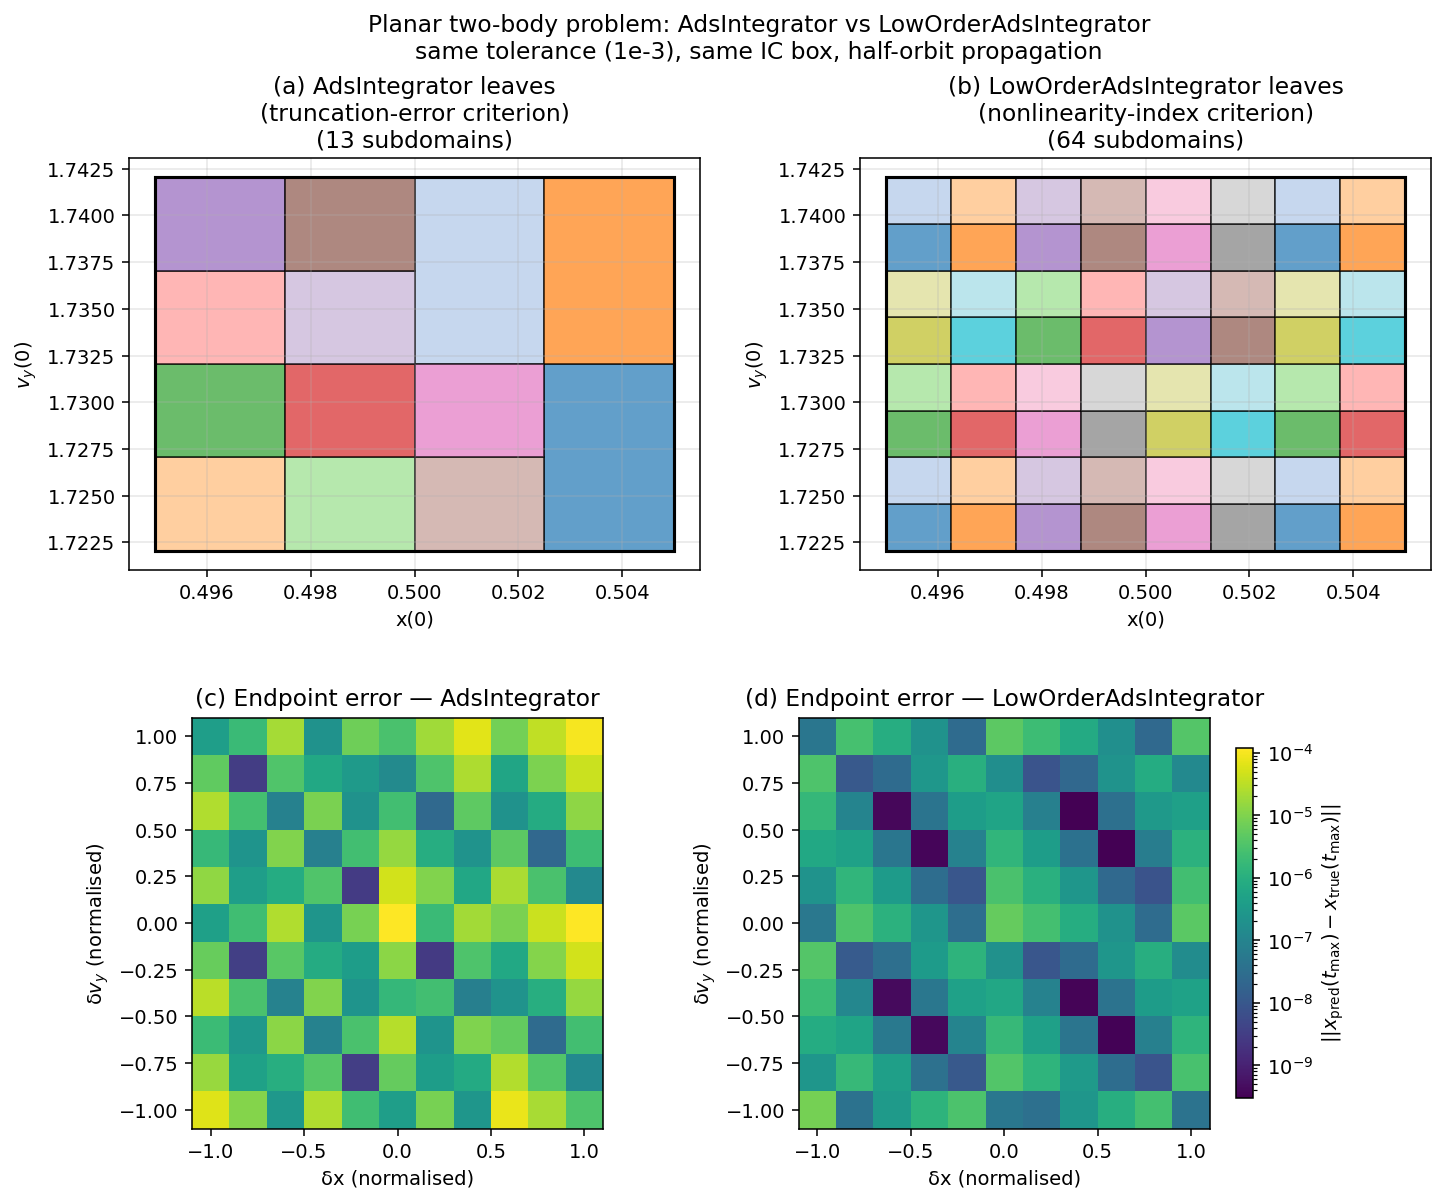
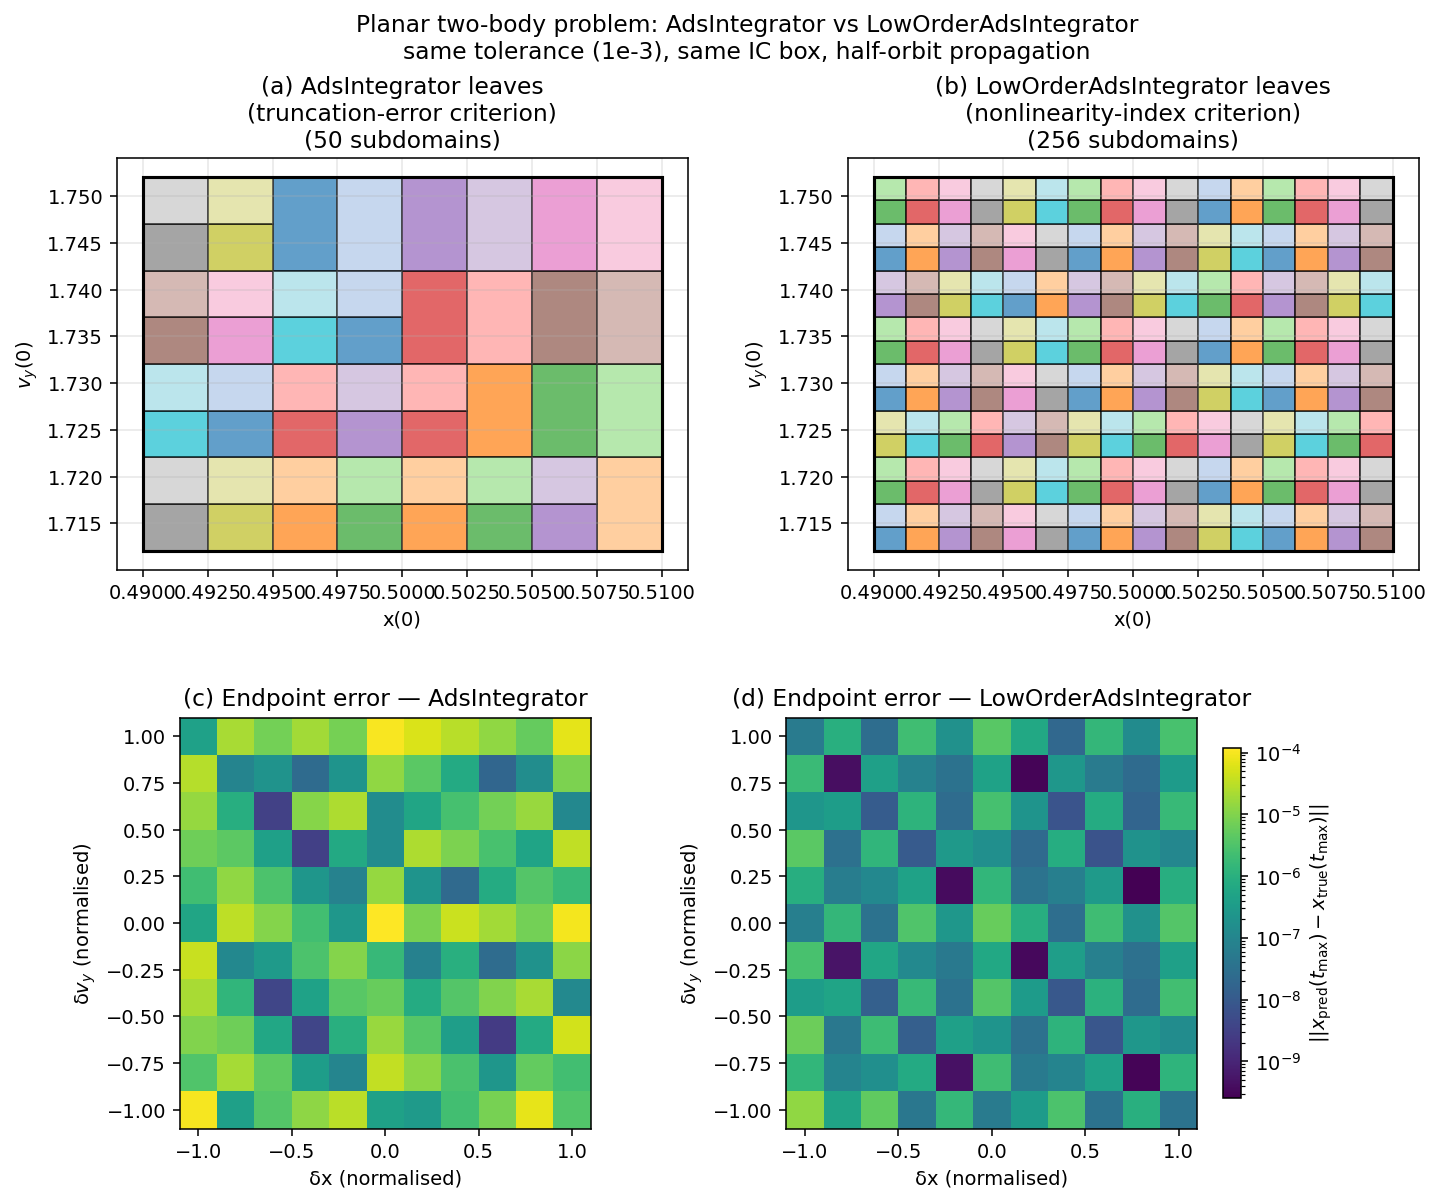
Add orbit-space view of the two-body ADS splitting
Extends the C++ example to dump leaf-boundary curves pushed forward to
(x, y) at t_max for both integrators, plus the full reference orbit and
its t = t_max endpoint, and bumps the IC box / max_depth so the partition
structure is visible in phase space.

Adds examples/plotTwoBodyAdsOrbit.py — a 1×2 zoom view (default) or 2×2
full+zoom view (--full) showing each method's IC partition projected onto
the orbit as outlined polygons.  Each polygon is the image of one leaf's
[-1,1]² IC box under the propagated DA flow; the union tiles the strip
of attainable phase-space states at t = t_max.

The new figure twoBodyAdsOrbit.png and the refreshed
twoBodyAdsComparison.png (now showing the adaptive 50-leaf truncation-
error partition vs the near-uniform 256-leaf NLI partition with error
heat-maps to match) are checked in alongside ellipticOrbit.png.

Sample run produces:
  AdsIntegrator        :  50 leaves, max endpoint err 1.17e-4
  LowOrderAdsIntegrator: 256 leaves, max endpoint err 1.32e-5

diff --git a/examples/plotTwoBodyAdsOrbit.py b/examples/plotTwoBodyAdsOrbit.py
@@ -1,0 +1,172 @@
+#!/usr/bin/env python3
+"""Plot the splitting of the two-body example projected onto the orbit.
+
+Generates twoBodyAdsOrbit.png with two panels:
+
+  (a) AdsIntegrator         — IC-box partition pushed forward to (x, y) at
+                              t = t_max, overlaid on the reference orbit.
+  (b) LowOrderAdsIntegrator — same view.
+
+Each leaf is drawn as the polygon obtained by walking the perimeter of its
+IC box (δ ∈ [-1, 1]²) and evaluating its flow polynomial at every boundary
+point.  The interior of the polygon is the image of the leaf's IC sub-box
+through the propagated DA flow.
+
+Run after building & executing the C++ example so the CSV files exist:
+
+    twoBody_te_leaf_orbit.csv
+    twoBody_lo_leaf_orbit.csv
+    twoBody_orbit_reference.csv
+    twoBody_orbit_endpoint.csv
+"""
+
+from __future__ import annotations
+
+import argparse
+from pathlib import Path
+
+import matplotlib.pyplot as plt
+import numpy as np
+from matplotlib.patches import Polygon
+
+
+def _load_csv(path: Path) -> np.ndarray:
+    return np.genfromtxt(path, delimiter=",", names=True)
+
+
+def _plot_split_on_orbit(
+    ax,
+    leaves: np.ndarray,
+    orbit: np.ndarray,
+    endpoint: np.ndarray,
+    title: str,
+    extent: tuple[float, float, float, float] | None = None,
+) -> None:
+    """Draw the reference orbit and overlay each leaf's pushed-forward
+    boundary as a filled polygon."""
+    ax.plot(orbit["x"], orbit["y"], color="black", lw=1.2,
+            label="reference orbit", zorder=1, alpha=0.85)
+    ax.plot([0.0], [0.0], marker="*", color="orange", ms=14,
+            label="primary", zorder=5)
+    ax.plot(endpoint["x"], endpoint["y"], marker="o", color="red", ms=8,
+            label="$t = t_{\\max}$", zorder=5)
+
+    cmap = plt.get_cmap("tab20")
+    leaf_ids = np.unique(leaves["leaf"]).astype(int)
+    for ci, li in enumerate(leaf_ids):
+        m = leaves["leaf"] == li
+        pts = np.column_stack([leaves["x"][m], leaves["y"][m]])
+        poly = Polygon(
+            pts,
+            closed=True,
+            facecolor="none",
+            edgecolor=cmap(ci % 20),
+            linewidth=0.8,
+            alpha=0.85,
+            zorder=2,
+        )
+        ax.add_patch(poly)
+
+    ax.set_aspect("equal", adjustable="datalim")
+    ax.set_xlabel("x")
+    ax.set_ylabel("y")
+    ax.set_title(f"{title}\n({len(leaf_ids)} subdomains)")
+    ax.grid(True, alpha=0.3)
+    if extent is not None:
+        ax.set_xlim(extent[0], extent[1])
+        ax.set_ylim(extent[2], extent[3])
+    ax.legend(loc="upper right", fontsize=8, framealpha=0.9)
+
+
+def main() -> None:
+    parser = argparse.ArgumentParser()
+    parser.add_argument(
+        "--data-dir",
+        type=Path,
+        default=Path(__file__).resolve().parent / "output",
+        help="Directory containing the CSV files written by twoBodyAdsComparison",
+    )
+    parser.add_argument(
+        "--output",
+        type=Path,
+        default=None,
+        help="Output PNG path (default: <script-dir>/twoBodyAdsOrbit.png)",
+    )
+    parser.add_argument(
+        "--full",
+        action="store_true",
+        help="Show full orbit + zoom (2x2 layout) instead of the default 1x2 zoom",
+    )
+    args = parser.parse_args()
+
+    out_path = (
+        args.output or Path(__file__).resolve().parent / "twoBodyAdsOrbit.png"
+    )
+
+    te = _load_csv(args.data_dir / "twoBody_te_leaf_orbit.csv")
+    lo = _load_csv(args.data_dir / "twoBody_lo_leaf_orbit.csv")
+    orbit = _load_csv(args.data_dir / "twoBody_orbit_reference.csv")
+    endpoint = _load_csv(args.data_dir / "twoBody_orbit_endpoint.csv")
+
+    # Zoom extent matching the smallest bounding box around all pushed-forward
+    # leaf polygons — used for the lower two panels.
+    all_x = np.concatenate([te["x"], lo["x"]])
+    all_y = np.concatenate([te["y"], lo["y"]])
+    pad_x = 0.10 * (all_x.max() - all_x.min() + 1e-12)
+    pad_y = 0.10 * (all_y.max() - all_y.min() + 1e-12)
+    zoom_extent = (
+        float(all_x.min() - pad_x),
+        float(all_x.max() + pad_x),
+        float(all_y.min() - pad_y),
+        float(all_y.max() + pad_y),
+    )
+
+    if args.full:
+        fig = plt.figure(figsize=(14, 12))
+        gs = fig.add_gridspec(2, 2, hspace=0.30, wspace=0.22)
+        ax_te_full = fig.add_subplot(gs[0, 0])
+        ax_lo_full = fig.add_subplot(gs[0, 1])
+        ax_te_zoom = fig.add_subplot(gs[1, 0])
+        ax_lo_zoom = fig.add_subplot(gs[1, 1])
+        _plot_split_on_orbit(
+            ax_te_full, te, orbit, endpoint,
+            "(a) AdsIntegrator — full orbit", None,
+        )
+        _plot_split_on_orbit(
+            ax_lo_full, lo, orbit, endpoint,
+            "(b) LowOrderAdsIntegrator — full orbit", None,
+        )
+        _plot_split_on_orbit(
+            ax_te_zoom, te, orbit, endpoint,
+            "(c) AdsIntegrator — zoom on apoapsis cluster", zoom_extent,
+        )
+        _plot_split_on_orbit(
+            ax_lo_zoom, lo, orbit, endpoint,
+            "(d) LowOrderAdsIntegrator — zoom on apoapsis cluster", zoom_extent,
+        )
+    else:
+        fig = plt.figure(figsize=(14, 7))
+        gs = fig.add_gridspec(1, 2, wspace=0.22)
+        ax_te = fig.add_subplot(gs[0, 0])
+        ax_lo = fig.add_subplot(gs[0, 1])
+        _plot_split_on_orbit(
+            ax_te, te, orbit, endpoint,
+            "(a) AdsIntegrator — truncation-error split", zoom_extent,
+        )
+        _plot_split_on_orbit(
+            ax_lo, lo, orbit, endpoint,
+            "(b) LowOrderAdsIntegrator — nonlinearity-index split", zoom_extent,
+        )
+
+    fig.suptitle(
+        "Two-body problem: IC partition pushed forward to (x, y) at $t = t_{\\max}$",
+        fontsize=12,
+        y=0.995,
+    )
+
+    fig.savefig(out_path, dpi=140, bbox_inches="tight")
+    print(f"Wrote {out_path}")
+
+
+if __name__ == "__main__":
+    main()

diff --git a/examples/twoBodyAdsComparison.cpp b/examples/twoBodyAdsComparison.cpp
@@ -25,11 +25,17 @@
 //     the same IC, sampled on a regular grid over δ ∈ [-1, 1]^2.
 //
 // Output:
-//   twoBody_ads_comparison.csv  — per-sample errors of both methods
-//   twoBody_te_leaves.csv       — IC-space bounds of the AdsIntegrator leaves
-//   twoBody_lo_leaves.csv       — IC-space bounds of the LowOrderAdsIntegrator leaves
+//   twoBody_ads_comparison.csv    — per-sample errors of both methods
+//   twoBody_te_leaves.csv         — IC-space bounds of the AdsIntegrator leaves
+//   twoBody_lo_leaves.csv         — IC-space bounds of the LowOrderAdsIntegrator leaves
+//   twoBody_te_leaf_orbit.csv     — leaf boundaries pushed forward to (x, y)
+//   twoBody_lo_leaf_orbit.csv     — same for the LowOrderAdsIntegrator leaves
+//   twoBody_orbit_reference.csv   — full elliptic orbit of the central IC
+//   twoBody_orbit_endpoint.csv    — central-IC position at t = tmax
 //
-// Companion plotting script: plotTwoBodyAdsComparison.py
+// Companion plotting scripts:
+//   plotTwoBodyAdsComparison.py  — IC-space + endpoint error figure
+//   plotTwoBodyAdsOrbit.py       — splitting projected onto the orbit
 // =============================================================================
 
 #include <algorithm>
@@ -116,12 +122,11 @@ int main()
     const double     vp   = std::sqrt( ( 1.0 + e ) / ( 1.0 - e ) );
     const double     tmax = std::numbers::pi;  // half orbital period (apoapsis pass)
 
-    // 2-D IC uncertainty: small offsets on x(0) and v_y(0).  Kept small enough
-    // that both criteria converge with a moderate split budget; the *relative*
-    // count of leaves is what matters for the comparison, not the absolute
-    // magnitude of each ADS run.
-    Box< double, kD > box{ { rp,     0.0, 0.0, vp    },
-                           { 0.005,  0.0, 0.0, 0.01  } };
+    // 2-D IC uncertainty along x(0) and v_y(0).  Sized so the IC partition is
+    // visible when pushed forward to (x, y) at t_max while still letting both
+    // criteria converge with a moderate split budget.
+    Box< double, kD > box{ { rp,    0.0, 0.0, vp   },
+                           { 0.01,  0.0, 0.0, 0.02 } };
 
     std::cout << "Two-body ADS comparison\n"
               << "  Orbit:        a = " << a << ", e = " << e << "\n"
@@ -137,7 +142,7 @@ int main()
     // 1) Truncation-error ADS (classical Wittig criterion).
     // -------------------------------------------------------------------------
     ode::AdsIntegrator< kN, kP, kD > te_ig{
-        kepler, ode::AdsConfig{ .step_tol = 1e-14, .ads_tol = tol, .max_depth = 6 } };
+        kepler, ode::AdsConfig{ .step_tol = 1e-14, .ads_tol = tol, .max_depth = 8 } };
     int te_splits = 0;
     te_ig.on_split = [&]( const ode::SplitEvent< kP, kD >& ) { ++te_splits; };
     auto te_tree = te_ig.integrate( box, 0.0, tmax );
@@ -146,7 +151,7 @@ int main()
     // 2) Low-order NLI-driven ADS.
     // -------------------------------------------------------------------------
     ode::LowOrderAdsIntegrator< kN, kP, kD > lo_ig{
-        kepler, ode::LowOrderAdsConfig{ .step_tol = 1e-14, .nli_tol = tol, .max_depth = 6 } };
+        kepler, ode::LowOrderAdsConfig{ .step_tol = 1e-14, .nli_tol = tol, .max_depth = 8 } };
     int lo_splits = 0;
     lo_ig.on_split = [&]( const ode::LowOrderSplitEvent< kP, kD >& ) { ++lo_splits; };
     auto lo_tree = lo_ig.integrate( box, 0.0, tmax );
@@ -171,6 +176,77 @@ int main()
     };
     dumpLeaves( te_tree, "twoBody_te_leaves.csv" );
     dumpLeaves( lo_tree, "twoBody_lo_leaves.csv" );
+
+    // -------------------------------------------------------------------------
+    // Push every leaf's IC-box boundary forward to (x, y) at t = tmax by
+    // evaluating its flow polynomial at uniformly spaced points along the
+    // perimeter of δ ∈ [-1, 1]² (the two active dimensions).  This is the
+    // "split on orbit" view: each method's IC partition becomes a tiling of
+    // phase space around the reference endpoint.
+    // -------------------------------------------------------------------------
+    constexpr int n_perim = 24;  // points per box edge
+    auto dumpLeafBoundaries = [&]( const auto& tree, const char* path ) {
+        std::ofstream out( path );
+        out << "leaf,segment,delta_x,delta_vy,x,y\n";
+        for ( int li : tree.doneLeaves() )
+        {
+            const auto& lf = tree.node( li ).leaf();
+            // Walk the perimeter δ ∈ [-1,1]² counter-clockwise.
+            auto emit = [&]( double dx, double dv, int seg ) {
+                std::array< double, kD > local{ dx, 0.0, 0.0, dv };
+                const double x_pred = lf.tte.state( 0 ).eval( local );
+                const double y_pred = lf.tte.state( 1 ).eval( local );
+                out << li << ',' << seg << ',' << dx << ',' << dv << ',' << x_pred << ','
+                    << y_pred << '\n';
+            };
+            for ( int i = 0; i < n_perim; ++i )
+            {
+                const double t = double( i ) / double( n_perim );
+                emit( -1.0 + 2.0 * t, -1.0, 0 );  // bottom edge
+            }
+            for ( int i = 0; i < n_perim; ++i )
+            {
+                const double t = double( i ) / double( n_perim );
+                emit( 1.0, -1.0 + 2.0 * t, 1 );  // right edge
+            }
+            for ( int i = 0; i < n_perim; ++i )
+            {
+                const double t = double( i ) / double( n_perim );
+                emit( 1.0 - 2.0 * t, 1.0, 2 );  // top edge
+            }
+            for ( int i = 0; i < n_perim; ++i )
+            {
+                const double t = double( i ) / double( n_perim );
+                emit( -1.0, 1.0 - 2.0 * t, 3 );  // left edge
+            }
+            // Close the loop.
+            emit( -1.0, -1.0, 4 );
+        }
+    };
+    dumpLeafBoundaries( te_tree, "twoBody_te_leaf_orbit.csv" );
+    dumpLeafBoundaries( lo_tree, "twoBody_lo_leaf_orbit.csv" );
+
+    // -------------------------------------------------------------------------
+    // Reference orbit of the central IC over a full period (for the "split
+    // on orbit" plot backdrop).  The flow-map view uses tmax; the orbit
+    // backdrop uses 2π so the ellipse is shown in full.
+    // -------------------------------------------------------------------------
+    {
+        ode::Integrator< kN, Vec > ref_ig{
+            kepler, ode::IntegratorConfig< double >{ .abstol = 1e-14 } };
+        Vec x0_center;
+        for ( int k = 0; k < kD; ++k ) x0_center( k ) = box.center[k];
+        auto ref_sol = ref_ig.integrate( x0_center, 0.0, 2.0 * std::numbers::pi );
+        std::ofstream ref( "twoBody_orbit_reference.csv" );
+        ref << "t,x,y\n";
+        for ( std::size_t i = 0; i < ref_sol.t.size(); ++i )
+            ref << ref_sol.t[i] << ',' << ref_sol.x[i]( 0 ) << ','
+                << ref_sol.x[i]( 1 ) << '\n';
+        // Also record where the reference is at t = tmax so the plot can mark it.
+        Vec x_at_tmax = ref_ig.integrate( x0_center, 0.0, tmax ).x.back();
+        std::ofstream ep( "twoBody_orbit_endpoint.csv" );
+        ep << "x,y\n" << x_at_tmax( 0 ) << ',' << x_at_tmax( 1 ) << '\n';
+    }
 
     // -------------------------------------------------------------------------
     // 3) Reference: scalar integrator at tight tolerance for every sample.